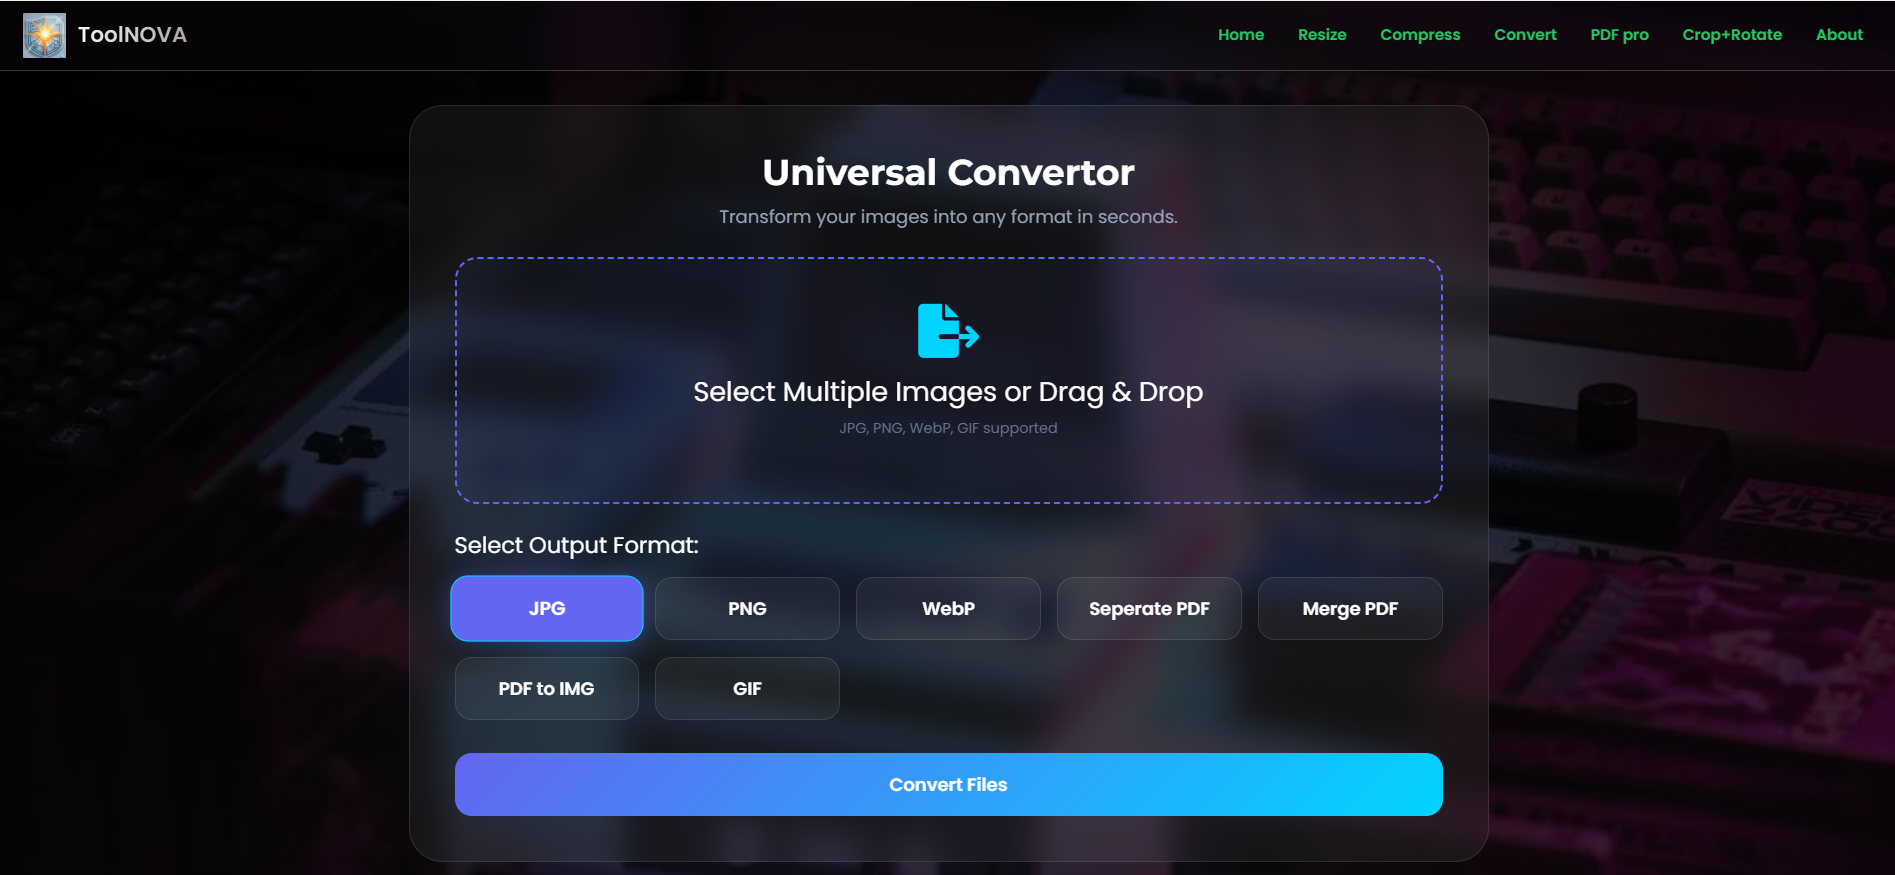
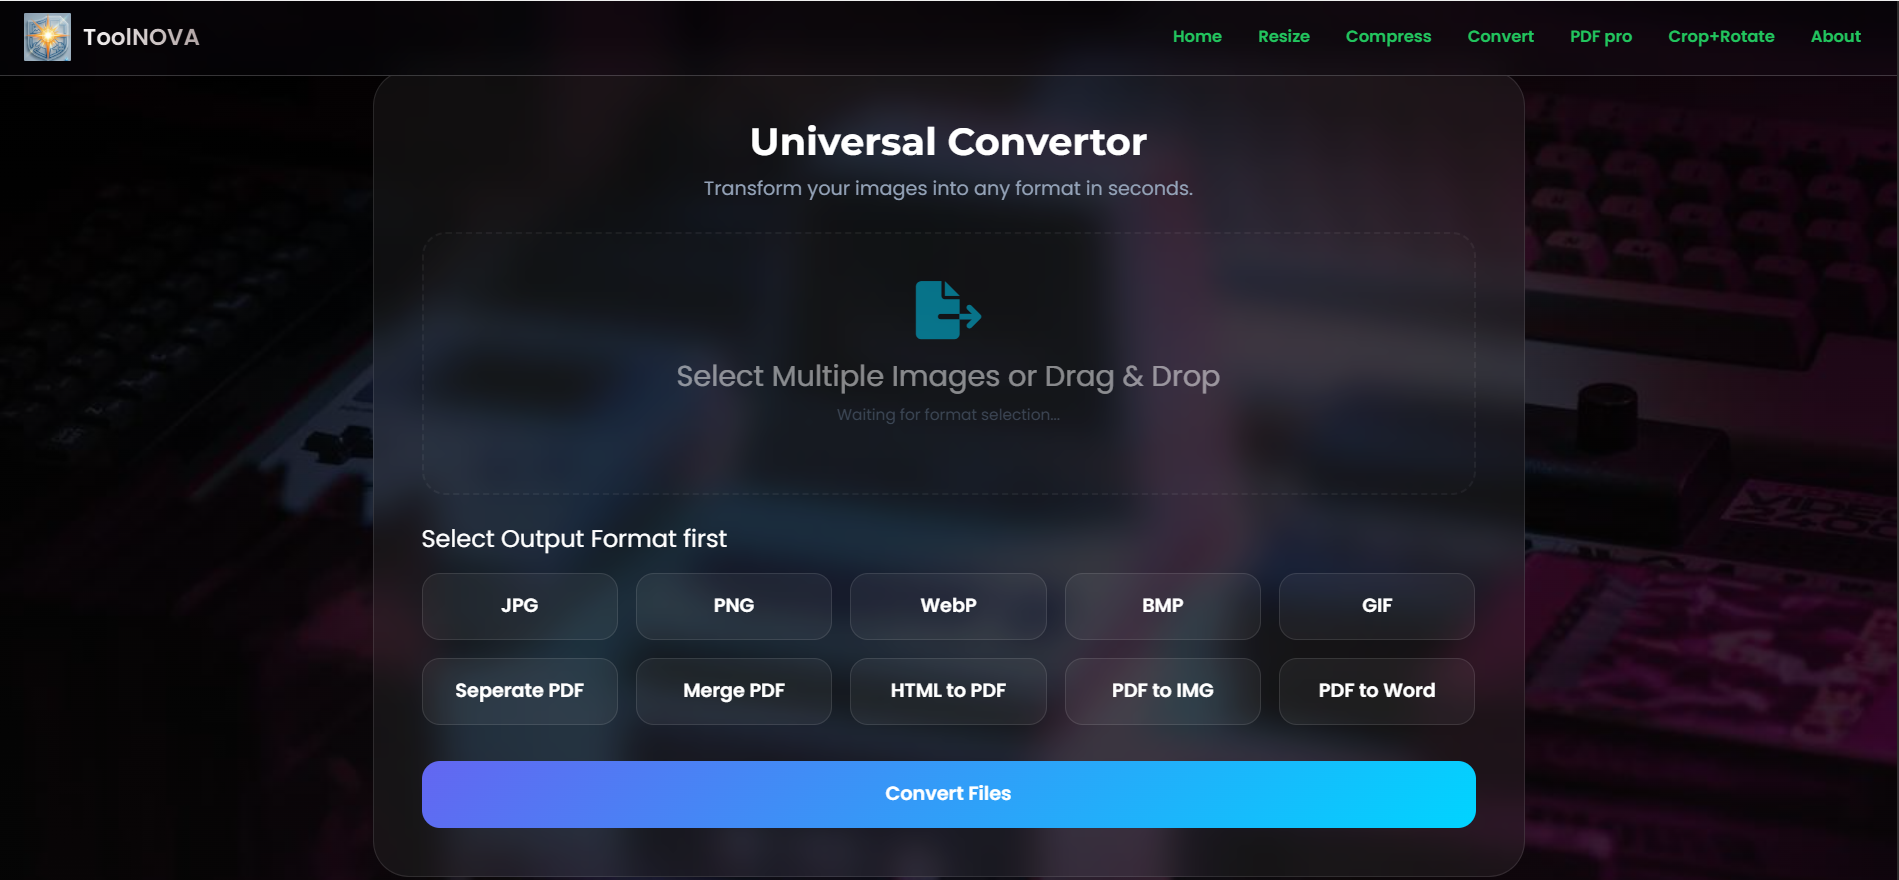
convertor updated

diff --git a/static/03_convert.js b/static/03_convert.js
@@ -26,6 +26,10 @@ function enableUpload(allowedType) {
     const dropZone = document.getElementById('dropZone');
     const fileLabel = document.getElementById('fileLabel');
 
+
+    fileInput.value = "";  
+    fileLabel.innerText = "Select Files or Drag & Drop";
+    document.getElementById('resultArea').style.display = 'none';
     // 1. Box ko active karein
     dropZone.classList.remove('is-disabled');
     dropZone.style.opacity = "1";
@@ -44,7 +48,7 @@ function enableUpload(allowedType) {
     else if (allowedType === 'pdf') {
         fileInput.accept = ".pdf";
         fileLabel.innerText = "You can select .pdf Files";   
-    } 
+    }
 }
 
 document.getElementById('convertForm').onsubmit = async (e) => {
